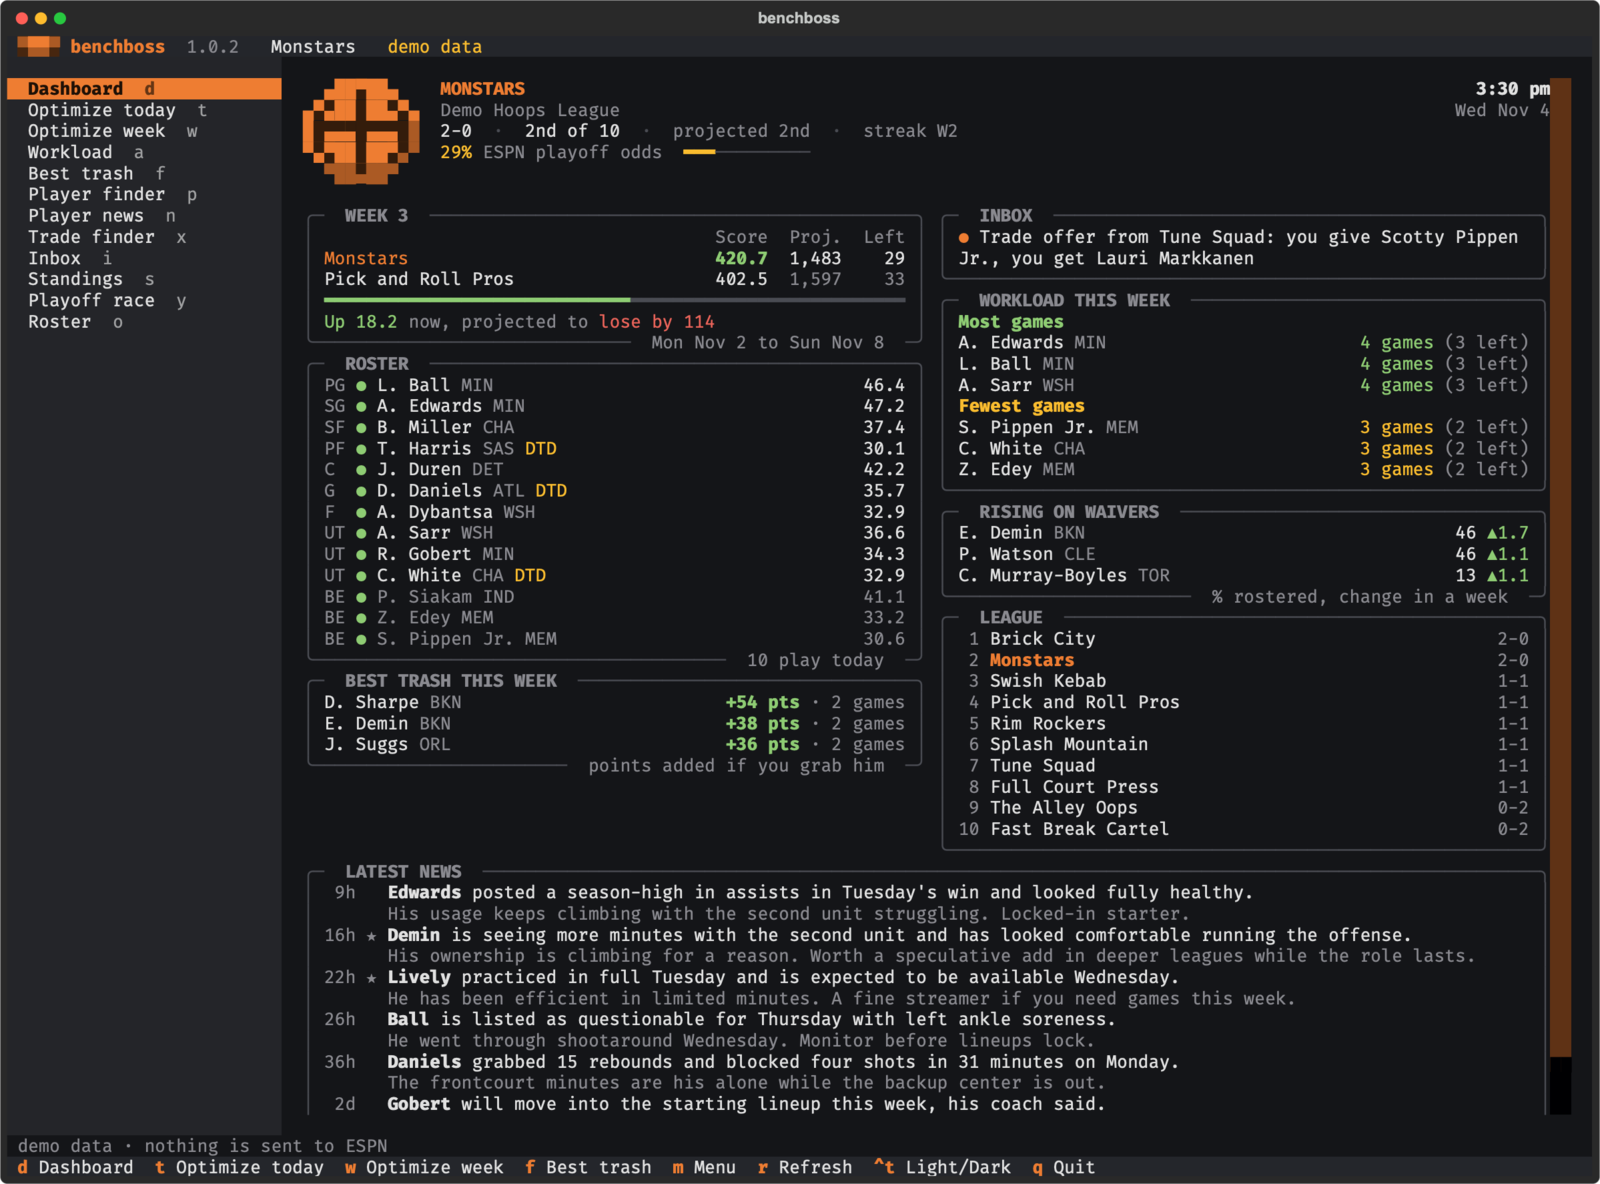
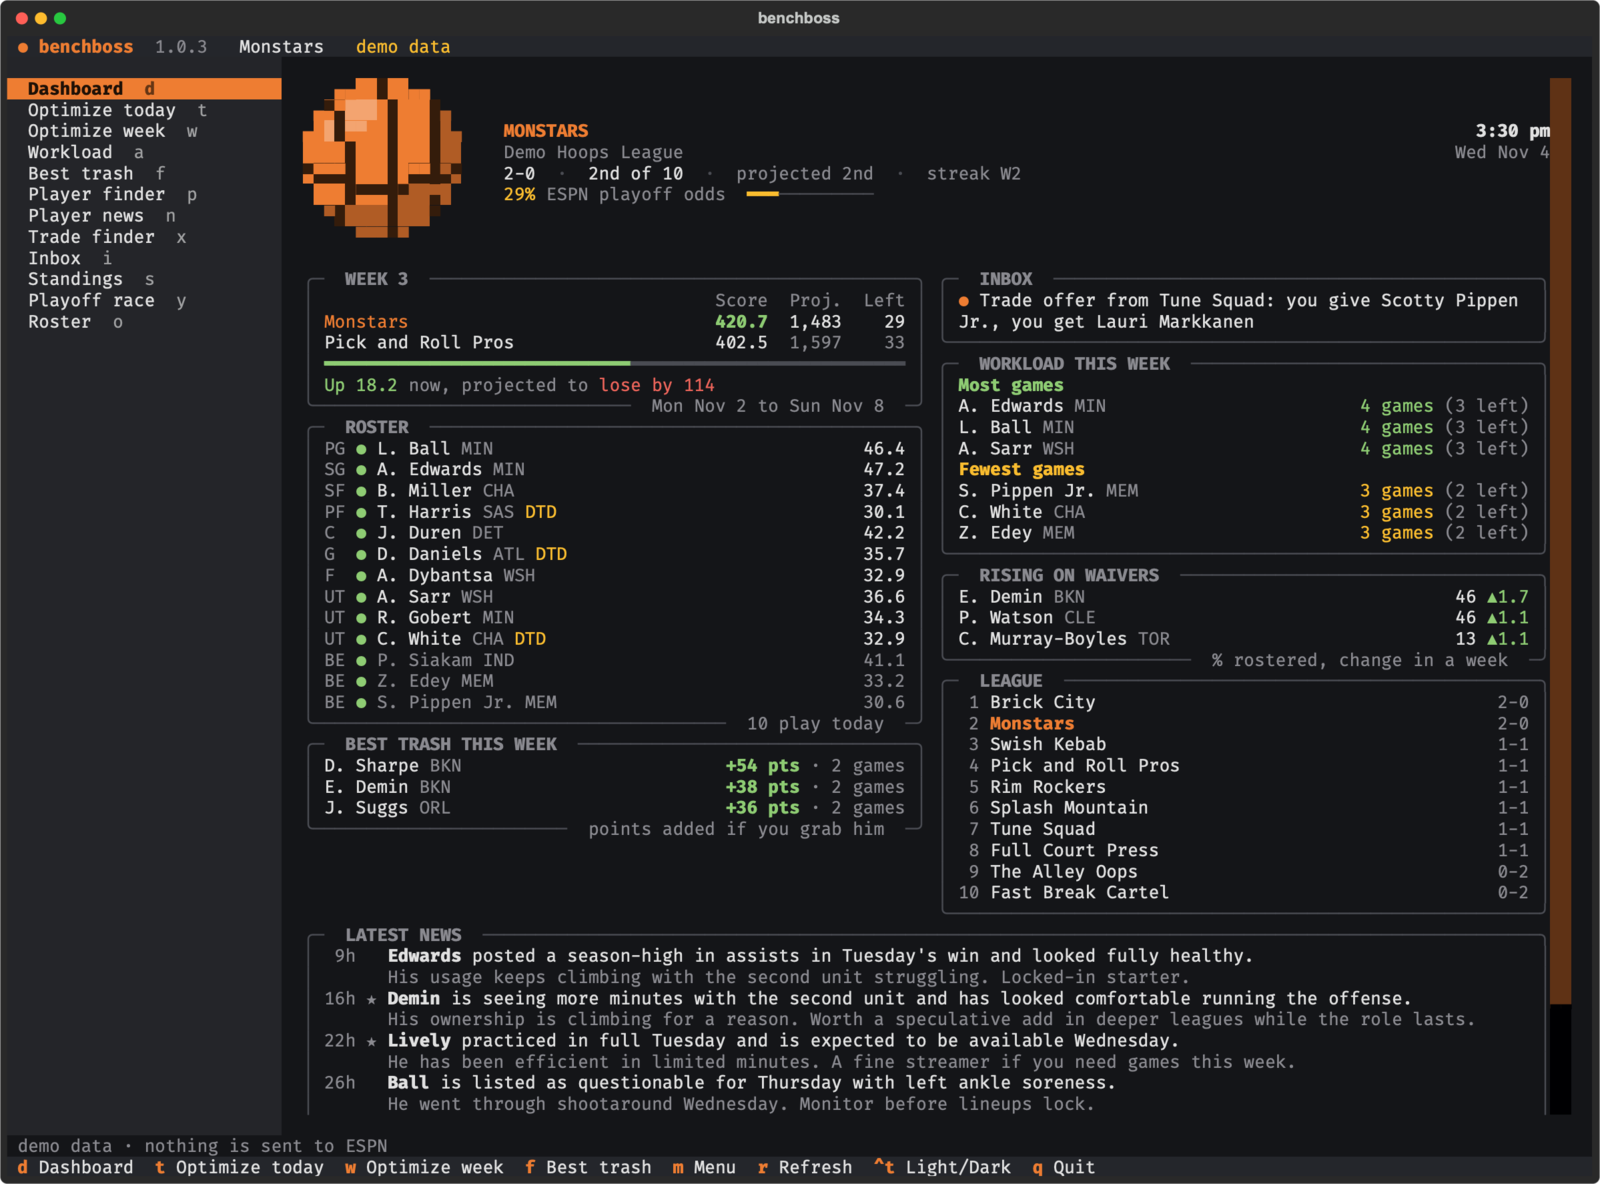
1.0.3: version, changelog, docs and screenshots

diff --git a/tests/test_audit102_privacy.py b/tests/test_audit102_privacy.py
@@ -195,7 +195,7 @@ def test_configuration_doc_lists_the_seen_news_file():
 
 def test_changelog_describes_the_release():
     text = repo_text("CHANGELOG.md")
-    entry = text.split(f"## [{benchboss.__version__}]", 1)[1].split("\n## [", 1)[0]
+    entry = text.split("## [1.0.2]", 1)[1].split("\n## [", 1)[0]  # the release it audited
     assert "Work in progress" not in entry
     assert "### Added" in entry and "### Changed" in entry
     for needle in (inbox.SEEN_FILE, "benchboss watch add|remove", "without", "--mark-read",

diff --git a/src/benchboss/__init__.py b/src/benchboss/__init__.py
@@ -1,4 +1,4 @@
 """benchboss: run your ESPN Fantasy Basketball team from the terminal."""
 
-__version__ = "1.0.2"
+__version__ = "1.0.3"
 __all__ = ["__version__"]

diff --git a/CHANGELOG.md b/CHANGELOG.md
@@ -4,6 +4,34 @@ All notable changes to this project are documented here. The format follows
 [Keep a Changelog](https://keepachangelog.com/en/1.1.0/) and the project uses
 [Semantic Versioning](https://semver.org/).
 
+## [1.0.3] - 2026-10-16
+
+A small patch on top of 1.0.2: a better ball and the loose ends the 1.0.2 audit left.
+
+### Changed
+
+- New pixel ball on the dashboard and in the README. It's bigger (15 by 15 pixels), has a
+  shine and a shaded side, and its seams curve the way they do on a real ball. It also gets
+  more room next to the team name. The app's top bar shows a round dot in the ball's color,
+  since one row of text is too short for a pixel ball.
+- Workload: a player you dropped or traded away this week stays at the bottom, marked
+  `gone`, with the games he played for you, so `In` and the daily counts add up. In
+  `activity --json` every row has a new `on_roster` key.
+- Standings shows ESPN's own clinch tags, combined ones included (`yz` is division and bye,
+  `*z` top seed and bye), read from the same field ESPN's site uses.
+- The demo league's days already played get the lineup a manager setting it every morning
+  would have had, so Workload shows a few bench games instead of one lineup copied to every
+  day.
+
+### Fixed
+
+- Budget waivers (FAAB) are detected the way ESPN's own app does it, from
+  `isUsingAcquisitionBudget`. In a league with a budget, a claim on a player on waivers asks
+  for `--bid` (at least the league minimum), and in a league without one `--bid` is refused
+  instead of being sent.
+- Player finder: the table ends on the last column that fits, so a column cut off at the
+  right edge no longer shows a stray digit.
+
 ## [1.0.2] - 2026-10-16
 
 Most of this release answers the feature request in

diff --git a/.github/skills/trash-scout/SKILL.md b/.github/skills/trash-scout/SKILL.md
@@ -23,8 +23,8 @@ argument-hint: optional position (PG SG SF PF C G F)
    a one-week stream, not an upgrade. `drop` is null only when the roster has an open spot.
 2. Cross-check volume with `benchboss activity --json` if the user cares about games played:
    `games`, `games_left`, and `games_in_lineup` (games in a starting slot, from the lineup
-   ESPN has saved for each day). Each `schedule` day has `date`, `opponent`, `slot` and
-   `starting`. To compare recent form, the player-finder skill
+   ESPN has saved for each day). Each entry of `days` has `date`, `opponent`, `slot` and
+   `starting`, and `on_roster` is false for a player who left the roster this week. To compare recent form, the player-finder skill
    (`benchboss players --json --sort l7`) has every stat split.
 3. Recommend at most three, each with one line of reasoning: net gain this week, games left,
    pickup day, injury flags. Mention waiver players cannot help until they clear.

diff --git a/docs/how-it-works.md b/docs/how-it-works.md
@@ -86,8 +86,10 @@ those days (for example with `optimize week`).
   spots. `13/10` means 13 players play and only 10 can start, so at least 3 games go to the
   bench. IR players do not count, and neither do days before a player joined your roster.
 - If the daily reads fail, the grid falls back to plain opponents and **In** shows `-`.
+- A player you dropped or traded away during the week stays as a last row marked `gone`,
+  with only the days he was yours, so the games he played for you still add up in **In**.
 
-Rows come in lineup order (starters by slot, then the bench, then IR). `v` in the app, or
+Rows come in lineup order (starters by slot, then the bench, then IR, then anyone gone). `v` in the app, or
 `--view games`, sorts by most games instead.
 
 ## Best trash (free agent value)
